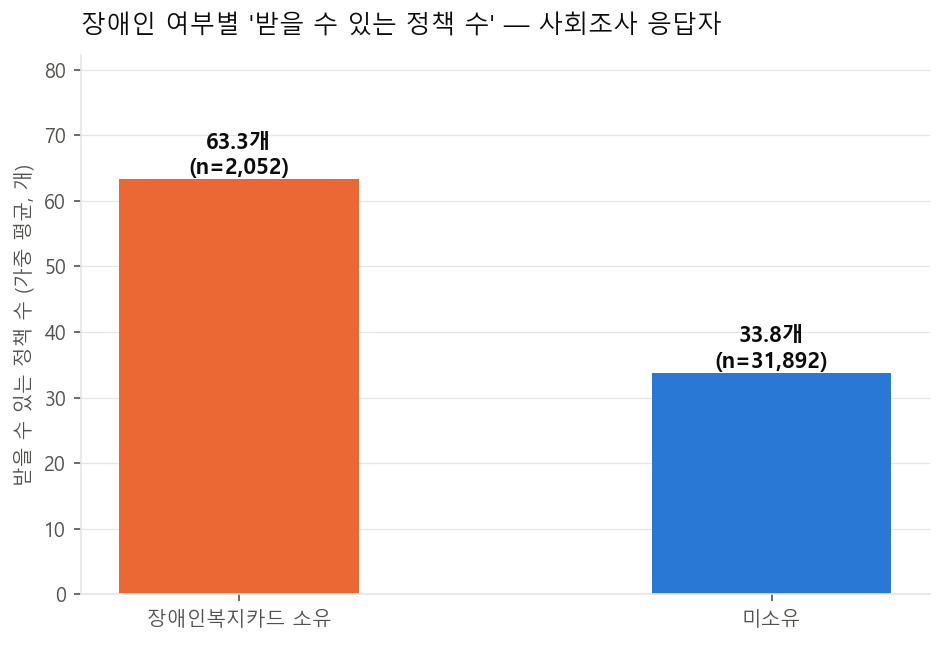
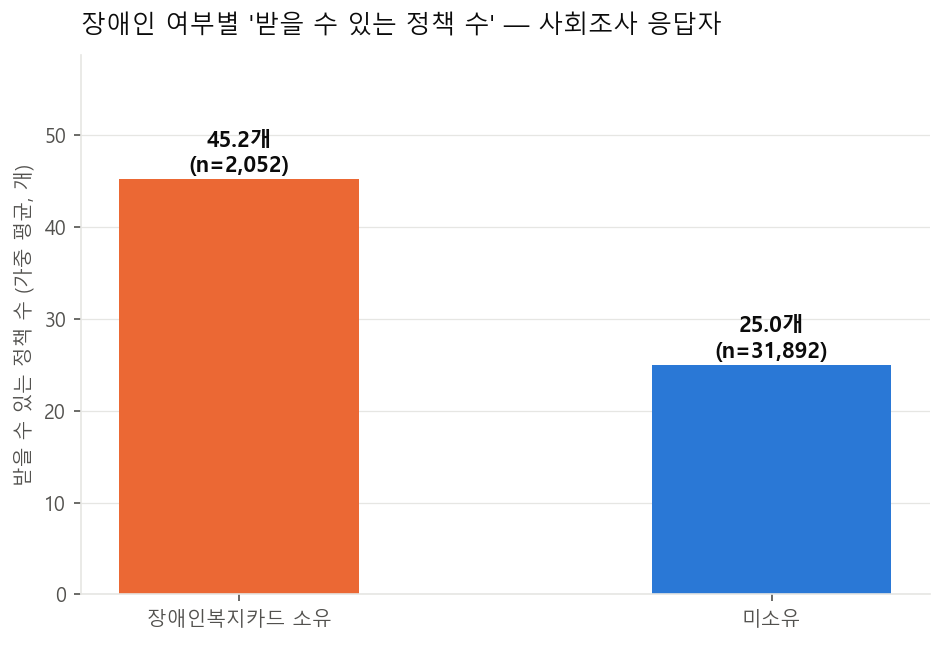
Exclude over-judged policies; rebuild section 5

diff --git a/mapping.html b/mapping.html
@@ -56,38 +56,45 @@ code{background:var(--soft);padding:1px 5px;border-radius:4px;font-size:.9em}
 <figure><img src="charts/key_disability.png" alt="장애인 변수 EDA" loading="lazy"></figure>
 
 <h2>5. 받을 수 있는 정책 수 — 규칙 엔진 매칭 결과 분석</h2>
-<p>사회조사 응답자 33,944명 각각에 대해 규칙 엔진이 461개 정책의 자격을 판정한 뒤, 자격이 확정(1)된 정책 수를 세었다
-(판정 불가·NaN은 제외한 보수적 집계). 전체 가중 평균은 <b>35.2개</b>(중앙값 34개)로,
-한 사람이 조건상 받을 수 있는 중앙부처 정책이 평균 35개 안팎임을 뜻한다.</p>
+<p>사회조사 응답자 33,944명 각각에 대해 규칙 엔진이 정책별 자격을 판정한 뒤, 자격이 확정(1)된 정책 수를 세었다
+(판정 불가·NaN은 제외한 보수적 집계).</p>
+<p class=note><b>과대 판정 정책 74개 제외</b> — 전체 461개 중, 우리 데이터로 판정할 수 없는 핵심 조건이
+누락되어 자격률이 부풀려진 정책을 뺐다. 예: '경계선지능청년지원'은 <i>경계선 지능(IQ 71~84)</i> 요건이 변수 사전에 없어
+연령(18~39세)만으로 판정돼 청년 전원이 자격자로 계산됐고, '성매매 방지 및 피해자 지원'도 피해 사실 요건이 빠져 100%가 됐다.
+사업주·법인이 신청자인 정책(사회적기업 일자리창출사업, 고령자 고용지원금 등)도 개인 매칭 대상이 아니므로 제외했다.
+그 결과 1인당 평균 정책 수는 35.2개에서 <b>25.9개</b>로 조정됐다
+(대상 387개, 중앙값 25개). 제외 목록은 분석/Processed_data/제외정책목록.csv, 판정 근거는
+분석/Result/특수조건_정책목록.csv 참조.</p>
 
 <h3>5-1. 생애주기별 분포 (violin plot)</h3>
-<p>노년이 평균 <b>40.8개</b>로 가장 많고 청년 35.7개, 중장년 33.6개, 청소년 26.7개 순이다.
+<p>노년이 평균 <b>30.4개</b>로 가장 많고 청년 25.8개, 중장년 24.7개, 청소년 20.9개 순이다.
 노년층은 연령 요건(60·65세 이상) 정책과 돌봄·의료 정책이 중첩되어 분포가 넓고, 청년은 취업·주거·금융 정책이 집중되어 중장년보다
 평균이 높다. 청소년은 본인 명의로 신청 가능한 정책이 적어 가장 낮다. 바이올린의 폭은 해당 정책 수를 가진 사람의 상대적 밀도이며,
 검은 점은 표본가중치를 적용한 평균이다.</p>
 <figure><img src="charts/key_violin_lifecycle.png" alt="생애주기별 정책 수 violin" loading="lazy"></figure>
 
 <h3>5-2. 생애주기별 대표 정책</h3>
-<p>각 생애주기가 실제로 자격을 갖는 정책 중, <b>다른 생애주기보다 자격률이 뚜렷하게 높은(5%p 이상) 정책</b>을 자격률 순으로 정리했다.
-괄호 안은 해당 생애주기의 가중 자격률이다. 전 국민 대상 정책(어느 생애주기에서나 자격률이 같은 정책)은 생애주기 간 차이가 없어 자동으로 제외된다.
-판정 신뢰도를 위해 사회조사 변수만으로 완전 판정되는 Tier A 정책 95개 중 본인 자격 기준 정책만 대상으로 했다.</p>
-<table><tr><th>순위</th><th>청소년</th><th>청년</th><th>중장년</th><th>노년</th></tr><tr><td>1위</td><td>청소년복지시설 운영 지원 (100%)</td><td>고졸자 후속관리 지원모델 개발사업 (100%)</td><td>직장인 든든한 점심밥 (75%)</td><td>인플루엔자 국가예방접종 지원사업 (100%)</td></tr><tr><td>2위</td><td>지역사회 청소년통합지원체계(청소년안전망) (100%)</td><td>경계선지능청년지원 사업 (100%)</td><td>대지급금 (75%)</td><td>노인장기요양보험 복지용구 급여 (100%)</td></tr><tr><td>3위</td><td>청소년상담1388 전화상담 (100%)</td><td>전문기술인재장학금 (21%)</td><td>생활안정자금(융자)(이차보전) (75%)</td><td>중앙노인돌봄지원기관 운영지원 (100%)</td></tr><tr><td>4위</td><td>청소년동반자프로그램 운영 (100%)</td><td>인문100년장학금 (21%)</td><td>체불 근로자 생계비 융자 (75%)</td><td>취약지역 어르신 문화누림 (100%)</td></tr><tr><td>5위</td><td>청소년상담1388 온라인상담 (100%)</td><td>공공산림가꾸기 (14%)</td><td></td><td>주택담보노후연금보증 (100%)</td></tr></table>
-<p>청소년은 성평등가족부의 청소년 상담·복지시설·안전망 정책이, 노년은 예방접종·장기요양·돌봄과 주택연금이 대표적이다.
-청년은 학업·취업 이행기를 지원하는 교육부·고용노동부 정책이, 중장년은 임금체불·퇴직 관련 근로자 보호 정책이 특징적으로 나타난다.
-중장년은 조건이 취업 여부에 걸려 있어 자격률이 74.8%로 다른 생애주기와의 격차(9.9%p)가 상대적으로 작다.</p>
+<p>각 생애주기가 자격을 갖는 정책 중 <b>다른 생애주기보다 자격률이 5%p 이상 높은 정책</b>을 자격률 순으로 정리했다(괄호 = 가중 자격률).
+전 국민 대상 정책은 생애주기 간 차이가 없어 자동 제외되며, 차이가 <b>연령 조건에서 비롯된 정책만</b> 인정했다.
+연령 제한이 없거나 범위가 3개 이상 생애주기에 걸치는 정책(예: 여성 전용·취업자 대상 전 연령 정책)은
+성비·취업률 같은 인구 구성 차이 때문에 특정 생애주기가 높아 보이는 착시여서 제외했다.</p>
+<table><tr><th>순위</th><th>청소년</th><th>청년</th><th>중장년</th><th>노년</th></tr><tr><td>1위</td><td>지역사회 청소년통합지원체계(청소년안전망) (100%)</td><td>전문기술인재장학금 (21%)</td><td></td><td>인플루엔자 국가예방접종 지원사업 (100%)</td></tr><tr><td>2위</td><td>청소년상담1388 전화상담 (100%)</td><td>인문100년장학금 (21%)</td><td></td><td>노인장기요양보험 복지용구 급여 (100%)</td></tr><tr><td>3위</td><td>청소년동반자프로그램 운영 (100%)</td><td></td><td></td><td>주택담보노후연금보증 (100%)</td></tr><tr><td>4위</td><td>청소년상담1388 온라인상담 (100%)</td><td></td><td></td><td>중장년 기술창업센터 지원사업 (100%)</td></tr><tr><td>5위</td><td>청소년산모 임신·출산 의료비 지원 (48%)</td><td></td><td></td><td></td></tr></table>
+<p>청소년은 성평등가족부의 상담·안전망 정책이, 노년은 예방접종·장기요양·주택연금이 대표적이다. 청년은 교육부 장학사업이 남았다.
+주목할 점은 <b>중장년(35~64세)에 해당하는 정책이 한 건도 없다는 것</b>이다. 중장년 전용 정책은 461개 중 2개뿐이고
+나머지는 전 연령 대상이어서, 생애주기 특화 지원이 가장 얇은 구간임을 보여준다.</p>
 
 <h3>5-3. 장애인이 받을 수 있는 정책 수</h3>
-<p>장애인복지카드 소유자는 평균 <b>63.3개</b>, 미소유자는 33.8개로 <b>29.5개 차이</b>가 난다.
-차이의 대부분은 장애인 전용 정책 75개에서 발생하며(전용 정책 중 소유자 평균 자격 26.8개),
+<p>장애인복지카드 소유자는 평균 <b>45.2개</b>, 미소유자는 25.0개로 <b>20.2개 차이</b>가 난다.
+차이의 대부분은 장애인 전용 정책 56개에서 발생하며(전용 정책 중 소유자 평균 자격 18.0개),
 나머지 일반 정책에서는 두 집단의 자격 수가 비슷하다 — 장애가 다른 정책의 배제 사유가 아니기 때문이다.
 즉 등록장애인은 "일반 정책 + 전용 정책"의 이중 자격 구조를 갖는다.</p>
 <figure><img src="charts/key_bar_disability_count.png" alt="장애인 여부별 정책 수" loading="lazy"></figure>
 
 <h3>5-4. 수급자가 받을 수 있는 정책 수 (60세 이상, 근사)</h3>
 <p>사회조사에는 수급 자격 문항이 없어 60세 이상에게만 조사된 '생활비 마련방법 = 정부·사회단체 지원'을 수급자 근사치로 썼다
-(n=1,448). 수급 근사자는 평균 <b>54.8개</b>, 같은 연령대 비수급자는 37.9개로 <b>16.9개 차이</b>다.
-수급자 자격을 요구하는 정책 99개 중 근사자의 확정 자격은 평균 13.1개에 그치는데,
-이는 소득인정액·재산 등 사회조사로 판정할 수 없는 조건이 평균 49.4개 정책에서 NaN(불명)으로 남기 때문이다.
+(n=1,448). 수급 근사자는 평균 <b>40.7개</b>, 같은 연령대 비수급자는 27.7개로 <b>13.0개 차이</b>다.
+수급자 자격을 요구하는 정책 90개 중 근사자의 확정 자격은 평균 9.4개에 그치는데,
+이는 소득인정액·재산 등 사회조사로 판정할 수 없는 조건이 평균 47.6개 정책에서 NaN(불명)으로 남기 때문이다.
 따라서 이 수치는 하한선이며, 앱에서 수급 여부를 직접 입력받으면 확정 정책 수는 크게 늘어난다.</p>
 <figure><img src="charts/key_bar_recipient_count.png" alt="수급자 여부별 정책 수" loading="lazy"></figure>
 <p class=note>집계 기준: 자격=1인 정책만 계산(NaN 제외), 가구원가중값 적용 평균. 표 원본은 분석/Result/키변수_차트/표5~8.</p>
